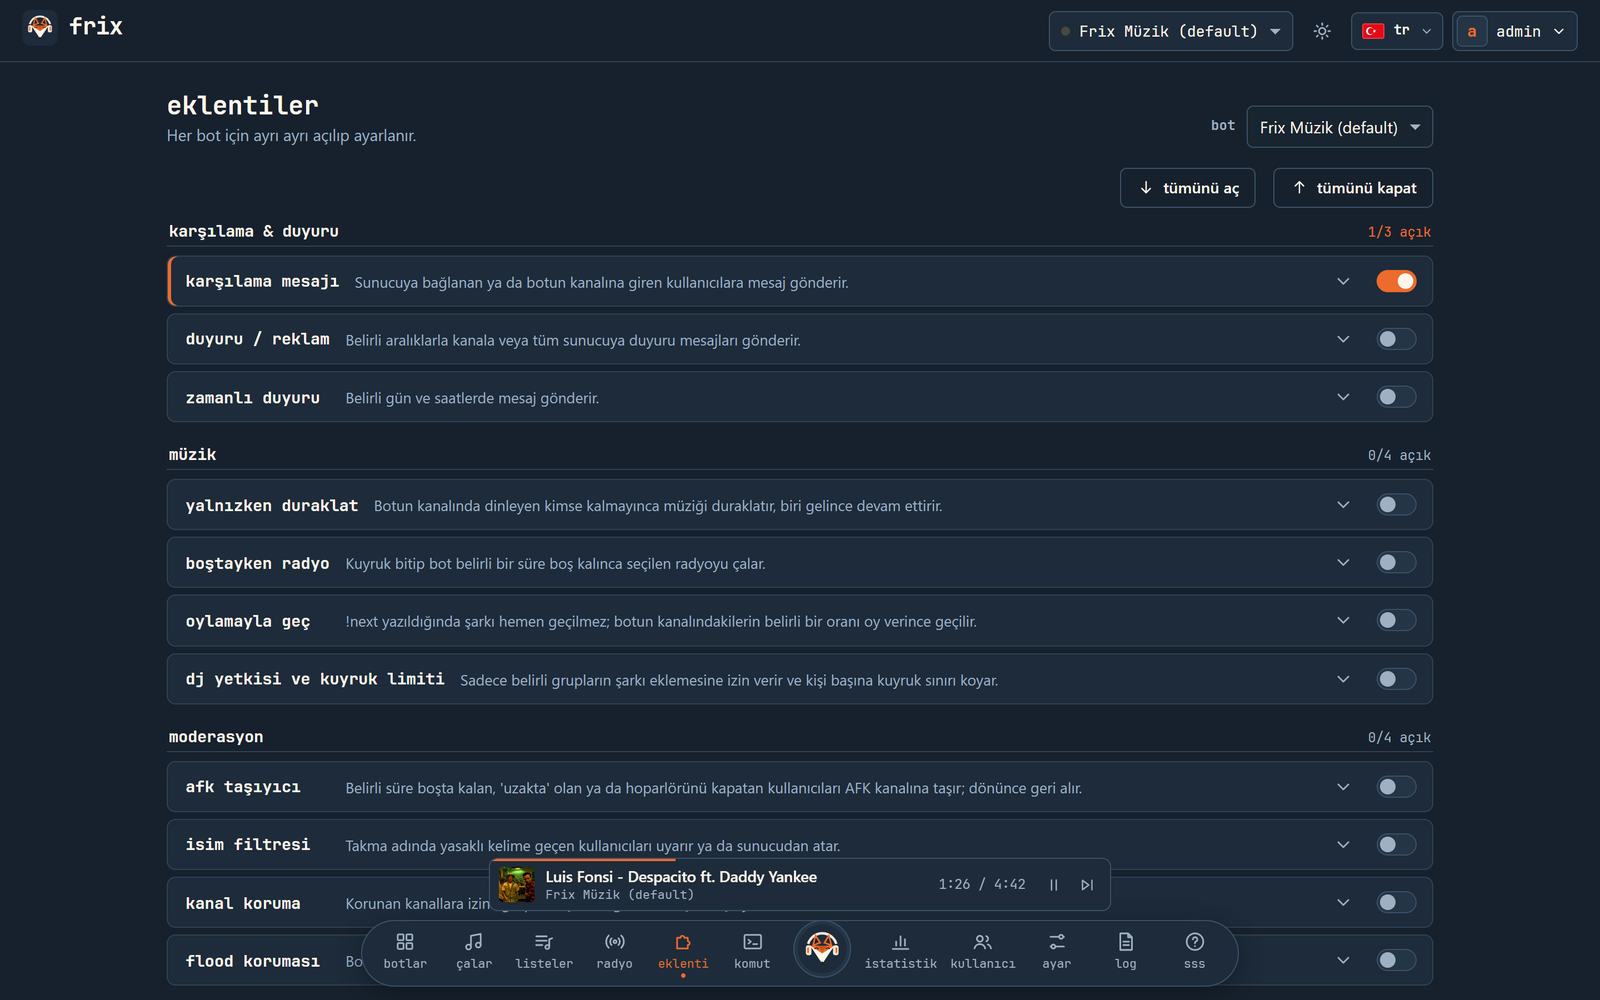
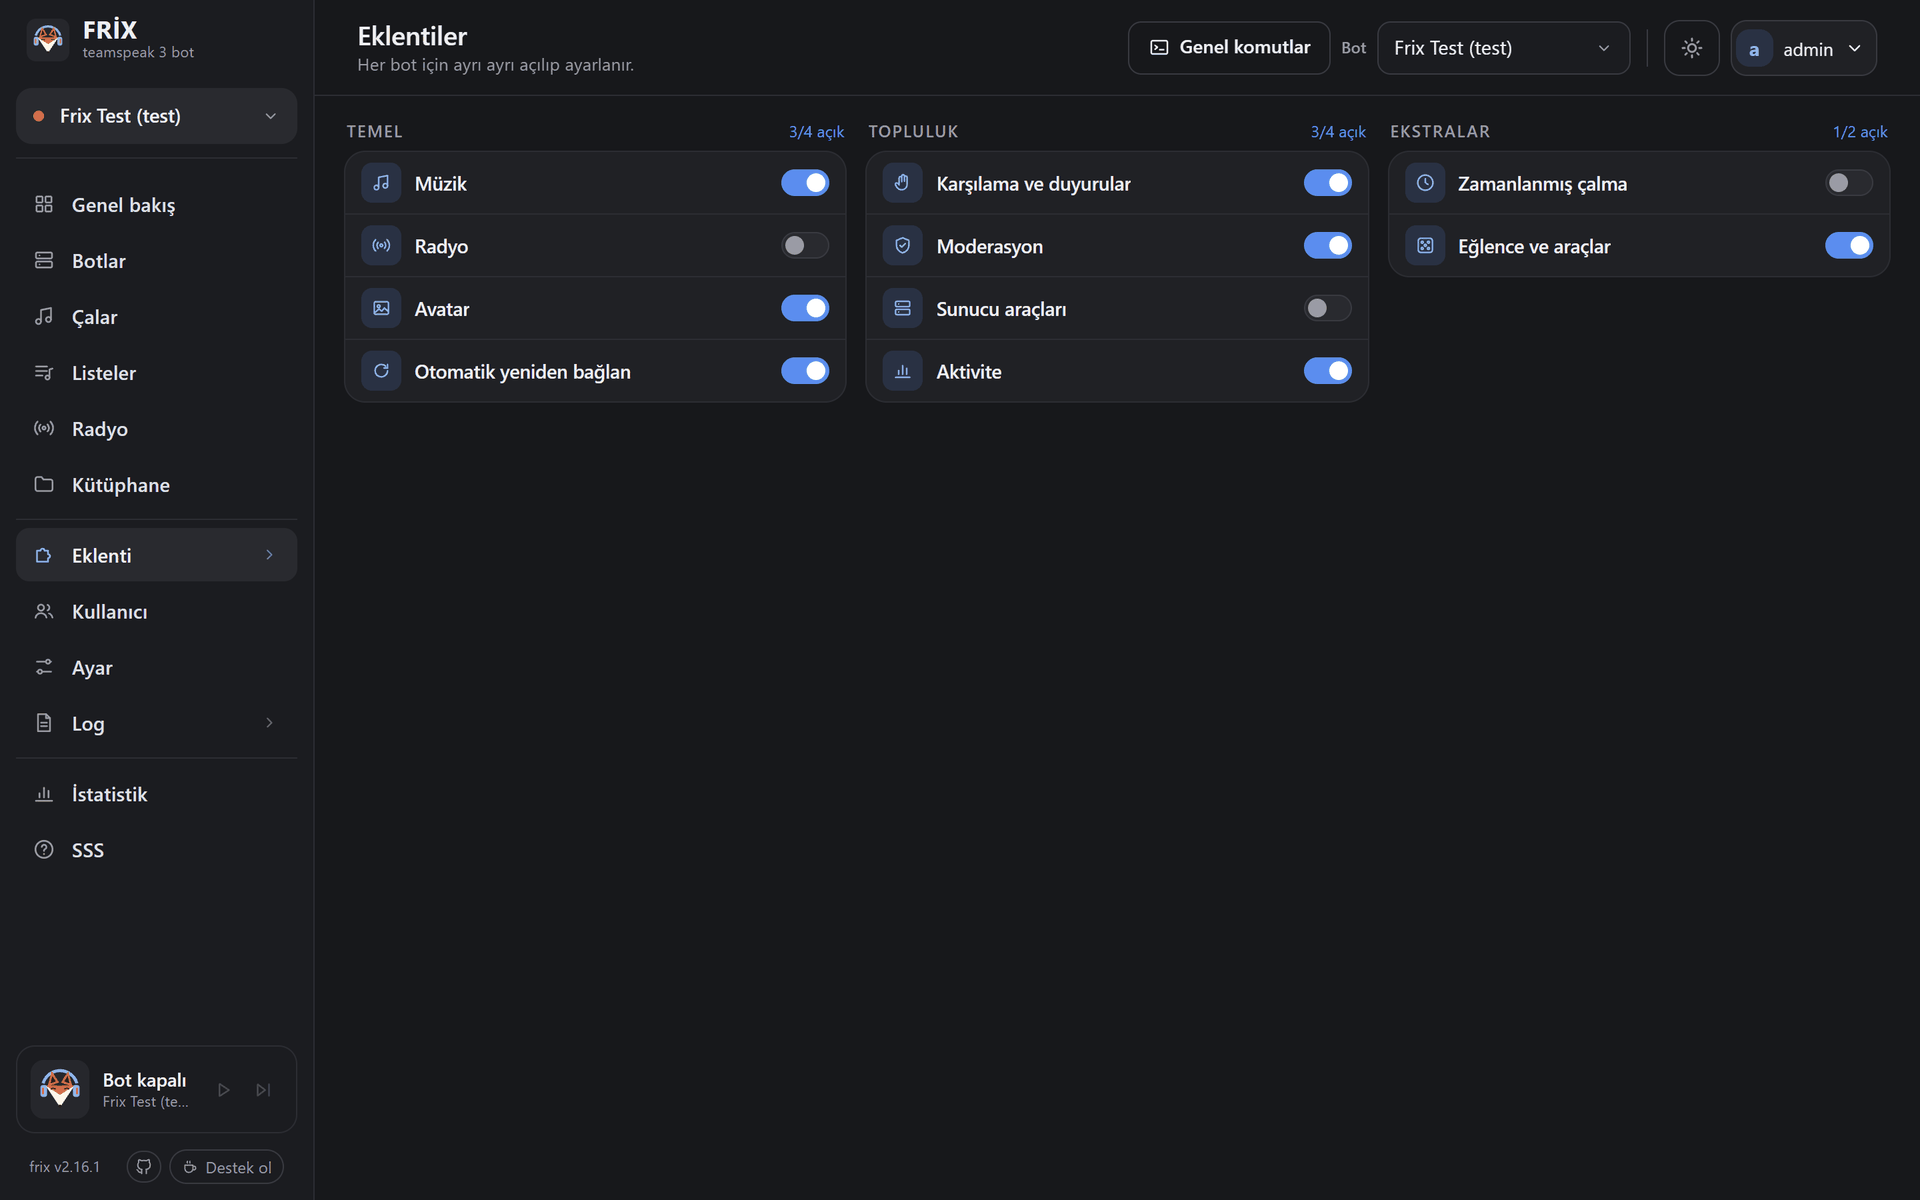
v2.16.2: new README and screenshots, script editor font
- README (EN/TR) rewritten: Frix is presented as a music, moderation and
  server management bot; features grouped by area; new screenshots of the
  dashboard, plugins, feature cards, scheduled playback, library, scripts,
  statistics, settings and mobile view; release and Docker badges.
- Script editor uses the monospace font and a taller editing area.

diff --git a/FrixPanel/index.html b/FrixPanel/index.html
@@ -9,13 +9,13 @@
   <title>frix</title>
   <link rel="icon" href="/favicon.ico" sizes="any">
   <link rel="icon" href="/logo.svg" type="image/svg+xml">
-  <link rel="stylesheet" href="/app.css?v=2161">
-  <script src="/i18n.js?v=2161" defer></script>
-  <script src="/flags.js?v=2161" defer></script>
-  <script src="/app.js?v=2161" defer></script>
-  <script src="/pages.js?v=2161" defer></script>
-  <script src="/dashboard.js?v=2161" defer></script>
-  <script src="/admin.js?v=2161" defer></script>
+  <link rel="stylesheet" href="/app.css?v=2162">
+  <script src="/i18n.js?v=2162" defer></script>
+  <script src="/flags.js?v=2162" defer></script>
+  <script src="/app.js?v=2162" defer></script>
+  <script src="/pages.js?v=2162" defer></script>
+  <script src="/dashboard.js?v=2162" defer></script>
+  <script src="/admin.js?v=2162" defer></script>
 </head>
 <body>
   <div id="app" class="auth">

diff --git a/FrixPanel/app.css b/FrixPanel/app.css
@@ -1827,3 +1827,5 @@ html[data-theme="krem"] .msg-prev { background: #f6f6f8; }
 .side-gh { display: inline-flex; align-items: center; justify-content: center; width: 26px; height: 24px; border-radius: 999px; border: 1px solid var(--line2); color: var(--muted); }
 .side-gh .ic, .side-gh svg { width: 14px; height: 14px; }
 .side-gh:hover { color: var(--text); border-color: var(--text); text-decoration: none; }
+.modal .script-editor, textarea.script-editor { height: 46vh; min-height: 260px; }
+textarea.input.script-editor { font-family: var(--mono) !important; font-size: .82rem; letter-spacing: 0; }

diff --git a/README.tr.md b/README.tr.md
@@ -2,14 +2,19 @@
 
 <img src="docs/images/banner.png" alt="Frix TeamSpeak 3 Bot" width="100%">
 
-# 🎵 Frix TeamSpeak 3 Bot
+# 🦊 Frix TeamSpeak 3 Bot
 
-**Modern web panelli, kendi sunucunda çalışan TeamSpeak 3 müzik ve yardımcı botu.**
-YouTube (canlı yayınlar dahil), SoundCloud, Twitch, internet radyoları ve daha fazlasını çalar — TeamSpeak istemcisi, VLC ya da sanal ses kablosu gerekmez.
+**TeamSpeak 3 için müzik, moderasyon ve sunucu yönetimi — modern web panelli, kendi sunucunda çalışan tek bot.**
+YouTube (canlı yayınlar dahil), radyolar ve kendi dosyalarını çalar; sunucunu düzenli tutar, kullanıcılarını karşılar
+ve rütbe verir, kendi JavaScript otomasyonlarını çalıştırır. TeamSpeak istemcisi, VLC ya da sanal ses kablosu gerekmez.
 
-[English](README.md) · [SSS](docs/FAQ.md) · [API](docs/API.md)
+[English](README.md) · [SSS](docs/FAQ.md) · [API](docs/API.md) · [Sürümler](https://github.com/lyusufdeniz/frix-teamspeak-3-bot/releases)
 
+<a href="https://github.com/lyusufdeniz/frix-teamspeak-3-bot/releases/latest"><img src="https://img.shields.io/github/v/release/lyusufdeniz/frix-teamspeak-3-bot?label=s%C3%BCr%C3%BCm&color=5b8def" alt="Son sürüm"></a>
+<a href="https://github.com/lyusufdeniz/frix-teamspeak-3-bot/pkgs/container/frix"><img src="https://img.shields.io/badge/docker-ghcr.io%2Flyusufdeniz%2Ffrix-2496ED?logo=docker&logoColor=white" alt="Docker imajı"></a>
 <a href="https://buymeacoffee.com/lyusufdeniz"><img src="https://img.shields.io/badge/Buy%20me%20a%20coffee-Frix'e%20destek%20ol-FFDD00?logo=buymeacoffee&logoColor=black" alt="Buy me a coffee"></a>
+
+<img src="docs/images/screens/dashboard-tr.png" alt="Frix genel bakış" width="100%">
 
 </div>
 
@@ -17,44 +22,41 @@ YouTube (canlı yayınlar dahil), SoundCloud, Twitch, internet radyoları ve dah
 
 Frix, açık kaynaklı [TS3AudioBot](https://github.com/Splamy/TS3AudioBot) (OSL-3.0) üzerine kurulmuştur.
 Bot TeamSpeak sunucusuna kendisi bağlanır ve sesi doğrudan Opus ile gönderir; bu sayede **Windows ve Linux**
-sunucularda ekransız çalışır.
+sunucularda ekransız, **Docker**'da ve **Pterodactyl**'de çalışır.
 
-## ✨ Özellikler
+## ✨ Frix neler yapar
 
-**Müzik**
-- `!ara <şarkı ya da link>` – YouTube'da arar, çalar ya da kuyruğa ekler (çok kelimeli arama)
-- **yt-dlp → ffmpeg** ile doğrudan akış (indirme yok, birkaç saniyede başlar)
-- **Canlı yayınlar** (YouTube canlı, Twitch…) ve **internet radyoları** (doğrudan yayın, `.m3u`, `.pls`, `.xspf`, HLS `.m3u8`)
-- Panelden eklenen radyolar `!radyo <isim>` ile çalınır
-- Kuyruk, geç, duraklat, sar, tekrar, karışık, ses
-- Renkli kanal mesajları, "Şimdi çalıyor" bildirimleri, düzenlenebilir cevap metinleri (Türkçe 🇹🇷 / İngilizce 🇬🇧)
-- Boştayken komut listesini gösteren avatar, çalarken kapak resmi
-- Channel commander (kanal komutanı) modu
+### 🎵 Müzik
+- `!ara <şarkı ya da link>` – YouTube araması, linkler, oynatma listeleri ve **canlı yayınlar** (YouTube canlı, Twitch…); **yt-dlp → ffmpeg** ile indirmeden çalar
+- Panelden yönetilen **internet radyoları** (`.m3u`, `.pls`, `.xspf`, HLS `.m3u8` içe aktarma), `!radyo <isim>`
+- **Kendi müzik kütüphanen**: panelden mp3 / ogg / flac / wav… yükle, sohbette `!dosya <ad>`
+- Çalma listeleri, favoriler (`!fav`), benzer şarkılarla otomatik devam, ses eşitleme, oylamayla geç, DJ modu ve kuyruk limiti
+- Görsel planlayıcıyla **zamanlanmış çalma** (gün, saat, radyo / liste / durdur / ses)
+- Çalan şarkı botun adı / açıklaması olur (`{title}`, `{artist}`, `{song}`); durum başına avatar (komut kartı, şarkı kapağı ya da kendi resmin)
 
-**Web panel** (tek sayfa uygulama, mobil uyumlu, TR/EN)
-- İlk kurulum sihirbazı (yönetici kullanıcı adını ve şifreyi sen belirlersin)
-- **Genel bakış (dashboard)**: canlı sunucu CPU / RAM grafiği, Frix'in bellek kullanımı, bugün / bu hafta çalınanlar, en çok çalınanlar ve **birden fazla botun** durumu
-- Sol menülü düzen; koyu (füme + mavi) ve açık tema
-- Arama sonuçları, "şarkı ekleniyor" ilerleme çubuğu, kuyruk taşıma/silme, sarma, ses ayarlı oynatıcı
-- Her bot için ayrı açılan **10 eklenti**; benzer özellikler tek eklentinin içinde, her biri ayrı açılıp kapanır:
-  - *Müzik:* komutlar, ses seviyesi eşitleme, otomatik devam (kuyruk bitince benzer şarkılar), favoriler (`!fav`, `!favs`), oylamayla geç, DJ yetkisi ve kuyruk limiti, yalnızken duraklat, çalan şarkıyı bot adı/açıklaması yapma
-  - *Radyo:* panelden eklenen radyolar (`!radyo`), boştayken radyo
-  - *Avatar:* boşta, müzik ve radyo için ayrı avatar: komut kartı, şarkı kapağı ya da yüklediğin resim
-  - *Otomatik yeniden bağlan:* düşünce aynı kanala geri girer
-  - *Karşılama ve duyurular:* karşılama mesajı, dönen duyurular ve zamanlı duyurular
-  - *Zamanlanmış çalma:* belirli saatlerde radyo/liste başlatma, durdurma, ses ayarı
-  - *Moderasyon:* AFK taşıyıcı, isim filtresi, kanal koruma, flood koruması
-  - *Sunucu araçları:* kayıt botu (`!kayit`), geçici kanal oluşturucu, kanal adında bilgi, destek bildirimi
-  - *Aktivite:* dashboard'da çevrimiçi grafiği ve en yoğun saatler, aktiflik rütbeleri
-  - *Eğlence ve araçlar:* anket, zar, yazı-tura, seçim, hava durumu, döviz, şarkı sözleri
-- **Kendi müzik kütüphanen**: panelden mp3 / ogg / flac / wav… yükle, çal, çalma listesine ekle; sohbette `!dosya <ad>`
-- **Scriptler**: kendi komutlarını ve otomasyonlarını JavaScript ile yaz (korumalı alanda, süre ve bellek sınırlı)
-- **Yedek alma / geri yükleme**: eklenti ayarları, metinler, komutlar, radyolar, çalma listeleri, avatar resimleri
-- **Çalma listeleri** (`!liste`) ve **istatistikler** (en çok çalınanlar, en çok şarkı açanlar, en aktifler)
-- Yerleşik komutlar yeniden adlandırılabilir, özel komut eklenebilir; komut adları kurulumda seçilen dile göre ayarlanır
-- **Özel komutlar** (metin cevabı ya da yönlendirme) ve düzenlenebilir bot cevapları
-- **Kullanıcılar ve roller**: yönetici / DJ / izleyici
-- Canlı loglar, işlem kaydı, yt-dlp güncelleme, YouTube çerez yükleme, **GitHub'dan tek tıkla güncelleme**
+### 🛡 Moderasyon ve sunucu yönetimi
+- AFK taşıyıcı, isim filtresi, kanal koruma, flood koruması
+- Kayıt botu (`!kayit`), geçici kanal oluşturucu, destek bildirimi
+- Canlı sayaçlı kanal adı (`{online}`, `{record}`, `{time}`…)
+- Botu kanalına çağırma `!gel`, son görülme `!gorulme <isim>`
+
+### 👥 Topluluk
+- Karşılama mesajları, dönen ve zamanlı duyurular
+- **Aktiflik rütbeleri**: sunucuda geçen süreye göre grup verme, görsel rütbe düzenleyici
+- Dashboard'da sunucu aktivitesi grafikleri ve en yoğun saatler, çevrimiçi listesi, ping ve paket kaybı
+- Canlı yüzdeli anketler, zar, yazı-tura, hava durumu, döviz, şarkı sözleri
+
+### ⚙ Otomasyon
+- **Scriptler**: kendi komutlarını ve olay dinleyicilerini JavaScript ile yaz, korumalı alanda çalışır (`frix.command`, `frix.on('connect' | 'song' | …)`, `frix.store`)
+- Özel komutlar (metin cevabı ya da yönlendirme), her yerleşik komutu yeniden adlandırma
+- Botun tüm cevapları canlı önizlemeli **BBCode editörüyle** düzenlenir, 9 dil
+
+### 🖥 Web panel
+- Genel bakış: sunucu CPU / RAM, çalınanlar, en çok çalınanlar, çevrimiçi kişiler, her botun bağlantı kalitesi
+- Her bot için ayrı açılan, özellik kartlı 10 eklenti; kapalı eklentilerin metinleri soluk görünür
+- **Kullanıcılar ve roller** (yönetici / DJ / izleyici), canlı loglar, işlem kaydı
+- **Yedek alma / geri yükleme**, GitHub'dan tek tıkla güncelleme, yt-dlp güncelleme, YouTube çerez yükleme
+- Koyu (füme + mavi) ve açık tema, mobil uyumlu
 
 **Güvenlik**
 - PBKDF2-SHA256 şifre hash'leme, HttpOnly + SameSite=Strict oturum çerezi, CSRF başlık kontrolü
@@ -66,14 +68,14 @@ sunucularda ekransız çalışır.
 
 | | |
 |---|---|
-| ![Oynatıcı, kuyruk ve çalan şarkı](docs/images/screens/player-tr.png) | ![Botlar](docs/images/screens/bots-tr.png) |
-| Oynatıcı, kuyruk ve çalan şarkı | Botlar |
-| ![Eklentiler (gruplu, açılır kapanır)](docs/images/screens/plugins-tr.png) | ![Komutlar: yeniden adlandırma, özel komutlar, avatar önizleme](docs/images/screens/commands-tr.png) |
-| Eklentiler (gruplu, açılır kapanır) | Komutlar: yeniden adlandırma, özel komutlar, avatar önizleme |
-| ![İstatistikler](docs/images/screens/stats-tr.png) | ![Ayarlar](docs/images/screens/settings-general-tr.png) |
-| İstatistikler | Ayarlar |
-
-<p align="center"><img src="docs/images/screens/player-mobile-tr.png" alt="Mobil görünüm" width="300"><br><sub>Mobil görünüm</sub></p>
+| ![Eklentiler](docs/images/screens/plugins-tr.png) | ![Özellik kartlı eklenti](docs/images/screens/plugin-dialog-tr.png) |
+| Her bot için ayrı açılan eklentiler | Her özellik kendi ayarlarıyla bir kart |
+| ![Zamanlanmış çalma](docs/images/screens/schedule-tr.png) | ![Müzik kütüphanesi](docs/images/screens/library-tr.png) |
+| Görsel zamanlanmış çalma | Kendi müzik kütüphanen |
+| ![Scriptler](docs/images/screens/scripts-tr.png) | ![İstatistikler](docs/images/screens/stats-tr.png) |
+| JavaScript scriptleri | İstatistikler |
+| ![Ayarlar ve yedekleme](docs/images/screens/settings-tr.png) | <img src="docs/images/screens/mobile-tr.png" alt="Mobil" width="260"> |
+| Ayarlar, yedek alma ve geri yükleme | Mobil görünüm |
 
 ## 🚀 Kurulum
 

diff --git a/README.md b/README.md
@@ -2,14 +2,19 @@
 
 <img src="docs/images/banner.png" alt="Frix TeamSpeak 3 Bot" width="100%">
 
-# 🎵 Frix TeamSpeak 3 Bot
+# 🦊 Frix TeamSpeak 3 Bot
 
-**A self-hosted TeamSpeak 3 music & utility bot with a modern web panel.**
-Plays YouTube (incl. live streams), SoundCloud, Twitch, internet radio and more — no TeamSpeak client, VLC or virtual audio cable needed.
+**Music, moderation and server management for TeamSpeak 3 — one self-hosted bot with a modern web panel.**
+Plays YouTube (incl. live streams), radios and your own files, keeps your server tidy, greets and ranks your users,
+and runs your own JavaScript automations. No TeamSpeak client, VLC or virtual audio cable needed.
 
-[Türkçe](README.tr.md) · [FAQ](docs/FAQ.md) · [API](docs/API.md)
+[Türkçe](README.tr.md) · [FAQ](docs/FAQ.md) · [API](docs/API.md) · [Releases](https://github.com/lyusufdeniz/frix-teamspeak-3-bot/releases)
 
+<a href="https://github.com/lyusufdeniz/frix-teamspeak-3-bot/releases/latest"><img src="https://img.shields.io/github/v/release/lyusufdeniz/frix-teamspeak-3-bot?label=release&color=5b8def" alt="Latest release"></a>
+<a href="https://github.com/lyusufdeniz/frix-teamspeak-3-bot/pkgs/container/frix"><img src="https://img.shields.io/badge/docker-ghcr.io%2Flyusufdeniz%2Ffrix-2496ED?logo=docker&logoColor=white" alt="Docker image"></a>
 <a href="https://buymeacoffee.com/lyusufdeniz"><img src="https://img.shields.io/badge/Buy%20me%20a%20coffee-support%20Frix-FFDD00?logo=buymeacoffee&logoColor=black" alt="Buy me a coffee"></a>
+
+<img src="docs/images/screens/dashboard-en.png" alt="Frix dashboard" width="100%">
 
 </div>
 
@@ -17,45 +22,41 @@ Plays YouTube (incl. live streams), SoundCloud, Twitch, internet radio and more 
 
 Frix is built on top of the excellent open-source [TS3AudioBot](https://github.com/Splamy/TS3AudioBot) (OSL-3.0).
 The bot connects to your TeamSpeak server by itself and streams audio directly with Opus, so it runs headless on
-**Windows and Linux** servers.
+**Windows and Linux** servers, in **Docker** and on **Pterodactyl**.
 
-## ✨ Features
+## ✨ What Frix does
 
-**Music**
-- `!ara <song or link>` – search YouTube and play / queue (multi-word search)
-- Direct streaming through **yt-dlp → ffmpeg** (no downloads, starts in a few seconds)
-- **Live streams** (YouTube live, Twitch, …) and **internet radio** (direct streams, `.m3u`, `.pls`, `.xspf`, HLS `.m3u8`)
-- Radio stations managed in the panel, played with `!radyo <name>`
-- Queue, skip, pause, seek, repeat, shuffle, volume
-- Colored channel messages, "Now playing" announcements, editable reply texts (Turkish 🇹🇷 / English 🇬🇧)
-- Idle avatar that shows the command list
-- Channel commander mode
+### 🎵 Music
+- `!play <song or link>` – YouTube search, links, playlists and **live streams** (YouTube live, Twitch, …) via **yt-dlp → ffmpeg**, no downloads
+- **Internet radio** managed in the panel (`.m3u`, `.pls`, `.xspf`, HLS `.m3u8` import), `!radio <name>`
+- **Your own music library**: upload mp3 / ogg / flac / wav… in the panel, `!file <name>` in chat
+- Playlists, favourites (`!fav`), autoplay of similar songs, volume levelling, vote skip, DJ mode and queue limits
+- **Scheduled playback** with a visual planner (days, time, radio / playlist / stop / volume)
+- The playing song as the bot's nickname / description (`{title}`, `{artist}`, `{song}`), per-state avatars (command card, song cover or your own image)
 
-**Web panel** (single-page app, mobile friendly, TR/EN)
-- First-run setup wizard (you choose the admin username & password)
-- **Dashboard**: live server CPU / RAM chart, Frix memory usage, plays today / this week, top songs and requesters, and the status of **multiple bots**
-- Left sidebar layout with a dark (smoke grey + blue) and a light theme
-- Player with search results, "adding song" progress, queue move/remove, seek, volume
-- **10 plugins**, each enabled per bot; related features live inside one plugin and are switched on one by one:
-  - *Music:* commands, volume levelling, autoplay (similar songs when the queue ends), favourites (`!fav`, `!favs`), vote skip, DJ mode & queue limit, pause when alone, song title as the bot's nickname/description
-  - *Radio:* `!radio` stations from the panel, idle radio
-  - *Avatar:* separate avatar for idle, music and radio: command card, song cover or your own uploaded image
-  - *Auto reconnect:* rejoins the same channel after a drop
-  - *Welcome & announcements:* welcome message, rotating ads and scheduled messages
-  - *Scheduled playback:* start a radio/playlist, stop or set the volume at set times
-  - *Moderation:* AFK mover, nickname filter, channel guard, anti-flood
-  - *Server tools:* registration (`!kayit`), temporary channel creator, channel name info, support notifier
-  - *Activity:* online users chart and busiest hours on the dashboard, activity ranks
-  - *Fun & tools:* polls, dice, coin flip, pick, weather, currency, lyrics
-- **Playlists** (`!liste`) and **statistics** (most played songs, top requesters, most active users)
-- **Own music library**: upload mp3 / ogg / flac / wav… in the panel, play them, add them to playlists, `!file <name>` in chat
-- **Scripts**: write your own commands and automations in JavaScript (sandboxed, with time and memory limits)
-- **Backup & restore** of plugin settings, texts, commands, radios, playlists and avatar images
-- Rename any built-in command, add custom commands; command names follow the language chosen at setup
-- **Custom commands** (text replies or aliases) and editable bot replies with a **BBCode editor** (bold, italic, colours, live preview) and a default message colour
-- The commands page only lists commands whose plugin is on
-- **Users & roles**: admin / DJ / viewer
-- Live logs, audit log, yt-dlp updater, YouTube cookie upload, **one-click updates from GitHub Releases**
+### 🛡 Moderation & server management
+- AFK mover, nickname filter, channel guard, anti-flood
+- Registration bot (`!register`), temporary channel creator, support notifier
+- Channel name info with live counters (`{online}`, `{record}`, `{time}`, …)
+- `!come` to bring the bot to your channel, `!lastseen <name>`
+
+### 👥 Community
+- Welcome messages, rotating and scheduled announcements
+- **Activity ranks**: time on the server → server groups, with a visual rank editor
+- Server activity charts and busiest hours on the dashboard, who-is-online list, ping and packet loss
+- Polls with live percentages, dice, coin flip, weather, currency, lyrics
+
+### ⚙ Automation
+- **Scripts**: write your own commands and event handlers in JavaScript, sandboxed (`frix.command`, `frix.on('connect' | 'song' | …)`, `frix.store`)
+- Custom commands (text replies or aliases), rename any built-in command
+- Every bot reply editable with a **BBCode editor** and live preview, in 9 languages
+
+### 🖥 Web panel
+- Dashboard: server CPU / RAM, plays, top songs, online users, connection quality of every bot
+- 10 plugins with feature cards, enabled per bot; texts of disabled plugins are dimmed
+- **Users & roles** (admin / DJ / viewer), live logs, audit log
+- **Backup & restore**, one-click updates from GitHub, yt-dlp updater, YouTube cookie upload
+- Dark (smoke grey + blue) and light theme, mobile friendly
 
 **Security**
 - PBKDF2-SHA256 password hashing, HttpOnly + SameSite=Strict session cookies, CSRF header check
@@ -67,14 +68,14 @@ The bot connects to your TeamSpeak server by itself and streams audio directly w
 
 | | |
 |---|---|
-| ![Player with queue and now playing](docs/images/screens/player-en.png) | ![Bots dashboard](docs/images/screens/bots-en.png) |
-| Player with queue and now playing | Bots dashboard |
-| ![Plugins, grouped and collapsible](docs/images/screens/plugins-en.png) | ![Commands: rename, custom commands, avatar preview](docs/images/screens/commands-en.png) |
-| Plugins, grouped and collapsible | Commands: rename, custom commands, avatar preview |
-| ![Statistics](docs/images/screens/stats-en.png) | ![Settings](docs/images/screens/settings-general-en.png) |
-| Statistics | Settings |
-
-<p align="center"><img src="docs/images/screens/player-mobile-en.png" alt="Mobile view" width="300"><br><sub>Mobile view</sub></p>
+| ![Plugins](docs/images/screens/plugins-en.png) | ![Plugin with feature cards](docs/images/screens/plugin-dialog-en.png) |
+| Plugins, enabled per bot | Every feature is a card with its own settings |
+| ![Scheduled playback](docs/images/screens/schedule-en.png) | ![Music library](docs/images/screens/library-en.png) |
+| Visual scheduled playback | Your own music library |
+| ![Scripts](docs/images/screens/scripts-en.png) | ![Statistics](docs/images/screens/stats-en.png) |
+| JavaScript scripts | Statistics |
+| ![Settings and backup](docs/images/screens/settings-en.png) | <img src="docs/images/screens/mobile-en.png" alt="Mobile" width="260"> |
+| Settings, backup & restore | Mobile view |
 
 ## 🚀 Installation
 
